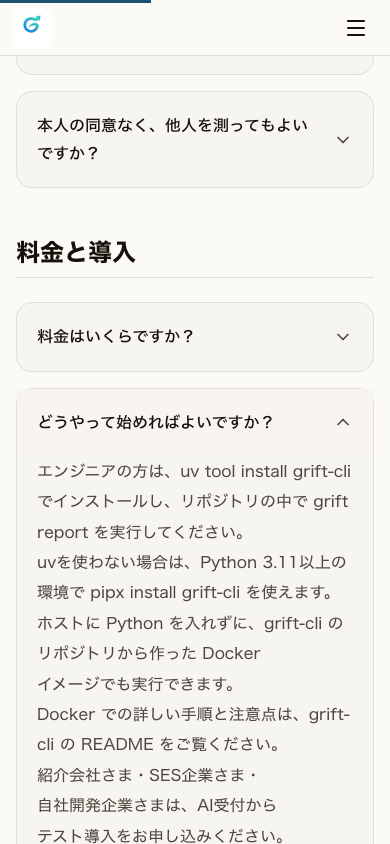
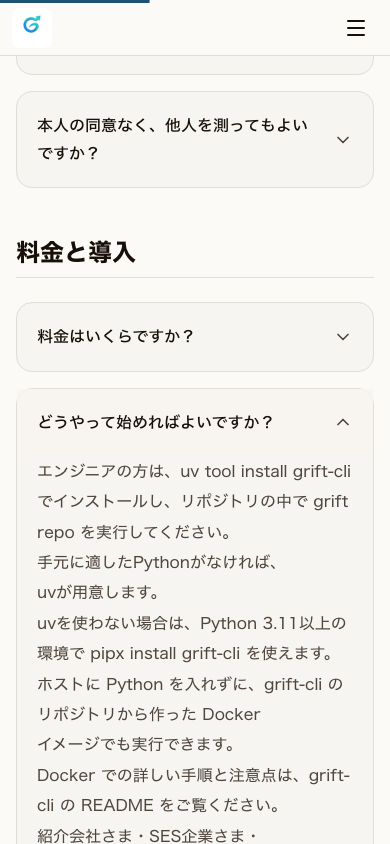
fix(site): Grift CLIの初回手順を公式案内にそろえる
Agent-Lane: codex

Changed region(s): [[0.0923, 0.6161, 0.8923, 1.0], [0.8, 0.8934, 0.8923, 0.9242]]

diff --git a/e2e/smoke.spec.ts b/e2e/smoke.spec.ts
@@ -254,6 +254,7 @@ test.describe('Grift CLI positioning (2026-10)', () => {
     const demo = page.locator('#product-demo');
     await expect(demo).toBeVisible();
     await expect(demo).toContainText('uv tool install grift-cli');
+    await expect(demo).toContainText('grift repo');
     await expect(page.locator('#pricing')).toContainText('v0.9.3');
     await expect(demo).toContainText('grift verify');
 

diff --git a/src/config/site.ts b/src/config/site.ts
@@ -47,6 +47,7 @@ export const griftCli = {
   metricsGuide: 'https://github.com/Cor-Incorporated/grift-cli/blob/main/docs/metrics-guide.md',
   packageName: 'grift-cli',
   installCommand: 'uv tool install grift-cli',
+  firstRunCommand: 'grift repo',
   version: '0.9.3',
   releasedOn: '2026-11-23',
   license: 'MIT',
